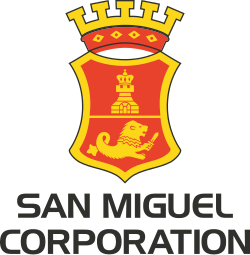
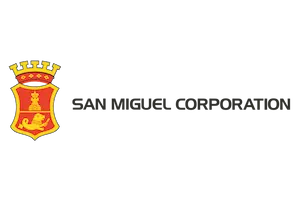
implemented higher quality images

diff --git a/app/components/sections/TrustedPartners.vue b/app/components/sections/TrustedPartners.vue
@@ -5,27 +5,31 @@
         title="Trusted By Known Brands"
         :ui="{
             root: 'bg-abyan-white',
-            container: 'py-12 sm:py-12 lg:py-12',
+            container: 'py-12 sm:py-12 sm:gap-8 lg:py-12',
         }"
     >
-        <div class="rounded-b-lg shadow-abyan-blue-900/10 shadow-lg mx-auto grid max-w-xl items-center gap-x-8 gap-y-10 pb-8 grid-cols-2 md:grid-cols-5 md:mx-0 md:max-w-none">
-            <img width="158" height="48" src="/brands/dominos-pizza.webp" alt="Dominos Pizza Logo" class="max-h-12 w-full object-contain"/>
-            <img width="158" height="48" src="/brands/mcdo.webp" alt="Mcdo Logo" class="max-h-12 w-full object-contain"/>
-            <img width="158" height="48" src="/brands/san-miguel.webp" alt="San Miguel Corporation Logo" class="max-h-12 w-full object-contain"/>
-            <img width="158" height="48" src="/brands/UCC.webp" alt="UCC Logo" class="max-h-12 w-full object-contain"/>
-            <img width="158" height="48" src="/brands/anchor-land.png" alt="Anchor Land Holdings Logo" class="max-h-12 w-full object-cover"/>
-            <img width="158" height="48" src="/brands/megaworld.png" alt="Megaworld Logo" class="max-h-12 w-full object-contain"/>
+        <div class="rounded-b-lg shadow-abyan-blue-900/10 shadow-lg mx-auto grid max-w-xl items-center gap-x-8 gap-y-8 pb-4 grid-cols-2 md:grid-cols-5 md:mx-0 md:max-w-none">
+            <img width="180" height="60" src="/brands/dominos-pizza.webp" alt="Dominos Pizza Logo" class="max-h-12 w-full object-contain"/>
+            <img width="180" height="60" src="/brands/mcdo.webp" alt="Mcdo Logo" class="max-h-12 w-full object-contain"/>
+            <img width="180" height="60" src="/brands/san-miguel.webp" alt="San Miguel Corporation Logo" class="max-h-12 w-full object-cover"/>
+            <img width="180" height="60" src="/brands/UCC.webp" alt="UCC Logo" class="max-h-12 w-full object-contain"/>
+            <img width="180" height="60" src="/brands/anchor-land.webp" alt="Anchor Land Holdings Logo" class="max-h-12 w-full object-cover"/>
+            <img width="180" height="60" src="/brands/megaworld.webp" alt="Megaworld Logo" class="max-h-12 w-full object-cover"/>
 
-            <!-- Nuxt HATES honda. long story short, do not put honda.png nor anything honda related into this section -->
-            <img width="158" height="48" src="/brands/hyundai.png" alt="Hyundai Logo" class="max-h-12 w-full object-contain" />
-            <img width="158" height="48" src="/brands/mitsubishi.png" alt="Mitsubishi Logo" class="max-h-12 w-full object-contain"/>
-            <img width="158" height="48" src="/brands/suzuki.png" alt="Suzuki Logo" class="max-h-12 w-full object-contain"/>
-            <img width="158" height="48" src="/brands/toyota.png" alt="Toyota Logo" class="max-h-12 w-full object-contain"/>
+            <!-- Nuxt HATES honda. long story short, do not put honda.webp nor anything honda related into this section -->
+            <img width="180" height="60" src="/brands/hyundai.webp" alt="Hyundai Logo" class="max-h-12 w-full object-contain" />
+            <img width="180" height="60" src="/brands/mitsubishi.webp" alt="Mitsubishi Logo" class="max-h-12 w-full object-contain"/>
+            <img width="180" height="60" src="/brands/suzuki.webp" alt="Suzuki Logo" class="max-h-12 w-full object-contain"/>
+            <img width="180" height="60" src="/brands/toyota.webp" alt="Toyota Logo" class="max-h-12 w-full object-contain"/>
         </div>
 
-        <div class="flex justify-center mt-8">
+        <div class="flex justify-center animate-bounce">
             <a href="#contact-us" class="rounded-full px-4 py-1.5 text-xs text-center ring-1 ring-abyan-blue-200 bg-abyan-blue-50">
-                ... And Many More. Interested Working Together?<span class="font-bold text-abyan-blue-500" > Reach Out</span>
+                ... And Many More. Interested Working Together?
+                <span class="font-bold text-abyan-blue-500" > 
+                    Reach Out
+                    <UIcon name="i-lucide-chevrons-down"/>
+                </span>
             </a>
         </div>
 
